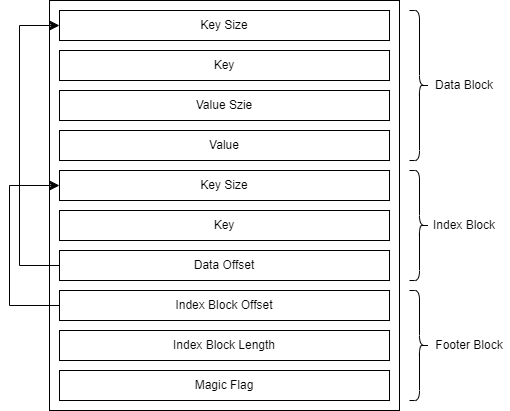
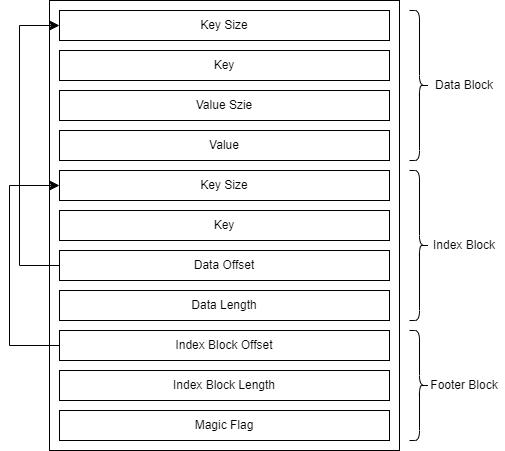
Refactor SSTable encoding and remove unused code

Changed region(s): [[0.0, 0.0, 0.9802, 1.0]]

diff --git a/kv/encode.go b/kv/encode.go
@@ -2,98 +2,47 @@ package kv
 
 import (
 	"encoding/binary"
-	"errors"
-	"sync"
+
+	"github.com/kamijoucen/hifidb/config"
 )
 
-type result struct {
-	index int
-	bytes []byte
+type indexPart struct {
+	keyLen uint32
+	key    []byte
+	offset uint64
 }
 
+// TODO 考虑改为增量写入
 func EnCodeSSTable(sst *SSTable) ([]byte, error) {
 
-	if len(sst.Nodes) == 0 {
-		return nil, errors.New("SSTable.Nodes is empty")
-	}
-	// meta info
-	allBytes := EnCodeSSTableMeta(sst.MetaData)
-	// index info
-	allBytes = append(allBytes, EnCodeSSTableIndex(sst.IndexData)...)
+	allBytes := make([]byte, 0, config.GlobalConfig.SSTableSize)
 
-	resultChan := make(chan result, len(sst.Nodes))
-	var wg sync.WaitGroup
-	wg.Add(len(sst.Nodes))
+	indexSlice := make([]*indexPart, 0, len(sst.DataBlocks))
+	for _, block := range sst.DataBlocks {
+		keyLen := uint32(len(block.Key))
+		// index
+		indexSlice = append(indexSlice, &indexPart{keyLen, block.Key, uint64(len(allBytes))})
+		// data block
+		allBytes = append(allBytes, Uint32ToBytes(keyLen)...)
+		allBytes = append(allBytes, block.Key...)
+		allBytes = append(allBytes, Uint32ToBytes(uint32(len(block.Value)))...)
+		allBytes = append(allBytes, block.Value...)
+	}
 
-	// close resultChan
-	go func() {
-		wg.Wait()
-		close(resultChan)
-	}()
-
-	// TODO 预分配node的空间
-	for i, node := range sst.Nodes {
-		go func(i int, node *SSTableNode) {
-			defer wg.Done()
-			resultChan <- result{i, EnCodeSSTableNode(node)}
-		}(i, node)
+	indexOffset := uint64(len(allBytes))
+	// index block
+	for _, index := range indexSlice {
+		allBytes = append(allBytes, Uint32ToBytes(index.keyLen)...)
+		allBytes = append(allBytes, index.key...)
+		allBytes = append(allBytes, Uint64ToBytes(index.offset)...)
 	}
-	results := make([][]byte, len(sst.Nodes))
-	for range sst.Nodes {
-		r := <-resultChan
-		results[r.index] = r.bytes
-	}
-	for _, bytes := range results {
-		allBytes = append(allBytes, bytes...)
-	}
+	indexLen := uint64(len(allBytes)) - indexOffset
+	// footer
+	allBytes = append(allBytes, Uint64ToBytes(indexOffset)...)
+	allBytes = append(allBytes, Uint64ToBytes(indexLen)...)
+	allBytes = append(allBytes, Uint32ToBytes(MAGIC_NUMBER)...)
+	// footer allBytes: indexOffset + indexLen + magic: 8 + 8 + 4 = 20
 	return allBytes, nil
-}
-
-// convert SSTable meta info to bytes
-func EnCodeSSTableMeta(meta *SSTableMeta) []byte {
-
-	bytes := make([]byte, 0, SS_TABLE_META_SIZE)
-
-	bytes = append(bytes, Uint64ToBytes(meta.Size)...)
-	// block start and end id
-	bytes = append(bytes, StrToBytes(meta.BeginId, DATA_BLOCK_ID_SIZE)...)
-	bytes = append(bytes, StrToBytes(meta.EndId, DATA_BLOCK_ID_SIZE)...)
-	bytes = append(bytes, Uint32ToBytes(meta.BlockSize)...)
-	bytes = append(bytes, Uint64ToBytes(uint64(meta.Timestamp))...)
-	return bytes
-}
-
-// convert sstable index to bytes
-func EnCodeSSTableIndex(index *SSTableIndex) []byte {
-
-	bytes := make([]byte, 0, 8+len(index.Index)*SS_TABLE_INDEX_PAIR_SIZE)
-	bytes = append(bytes, Uint64ToBytes(index.Size)...)
-
-	for k, v := range index.Index {
-		bytes = append(bytes, StrToBytes(k, DATA_BLOCK_ID_SIZE)...)
-		bytes = append(bytes, Uint64ToBytes(v)...)
-	}
-	return bytes
-}
-
-// convert SSTable node to bytes
-func EnCodeSSTableNode(node *SSTableNode) []byte {
-	bytes := EnCodeSSTableNodeMeta(&node.MetaData)
-	bytes = append(bytes, StrToBytes(node.Value, len(node.Value))...)
-	return bytes
-}
-
-// convert SSTable node meta info to bytes
-func EnCodeSSTableNodeMeta(meta *SSNodeMeta) []byte {
-
-	bytes := make([]byte, 0, SS_NODE_META_SIZE)
-
-	bytes = append(bytes, StrToBytes(meta.Id, DATA_BLOCK_ID_SIZE)...)
-	bytes = append(bytes, Uint8ToBytes(meta.DataType)...)
-	bytes = append(bytes, Uint8ToBytes(meta.CompType)...)
-	bytes = append(bytes, Uint64ToBytes(meta.Size)...)
-
-	return bytes
 }
 
 func Uint8ToBytes(n uint8) []byte {

diff --git a/kv/sstable.go b/kv/sstable.go
@@ -1,61 +1,32 @@
 package kv
 
-// 压缩类型
-const (
-	// 不压缩
-	COMP_TYPE_NONE = uint8(iota)
-	// 压缩
-	COMP_TYPE_ZLIB
-)
-
-// 数据块类型
-const (
-	// 普通数据
-	DATA_BLOCK_TYPE_DATA = uint8(iota)
-	// 删除数据
-	DATA_BLOCK_TYPE_DELETE
-)
+// |-------------------------------------|
+// | key size | key | value size | value |
+// |-------------------------------------|
 
 const (
-	DATA_BLOCK_ID_SIZE       = 128
-	DATA_BLOCK_LENGTH_SIZE   = 8
-	SS_TABLE_META_SIZE       = 276
-	SS_NODE_META_SIZE        = 138
-	SS_TABLE_INDEX_PAIR_SIZE = 136
+	MAGIC_NUMBER = 12138
 )
 
-// sstable
+type DataItem struct {
+	Key   []byte
+	Value []byte
+}
+
+type IndexItem struct {
+	Key    []byte // key
+	Offset uint64 // 数据块的偏移量
+	Length uint32 // 数据块的长度
+}
+
+type FooterItem struct {
+	IndexOffset uint64 // 索引块的偏移量
+	IndexLen    uint64 // 索引块的长度
+	Magic       uint32 // 魔数
+}
+
 type SSTable struct {
-	MetaData  *SSTableMeta
-	IndexData *SSTableIndex
-	Nodes     []*SSTableNode
+	DataBlocks  []*DataItem
+	IndexBlocks []*IndexItem
+	FooterItem  *FooterItem
 }
-
-type SSTableMeta struct {
-	Size      uint64 // 8 bytes
-	BeginId   string // 128 bytes
-	EndId     string // 128 bytes
-	BlockSize uint32 // 4 bytes sstable中数据块的数量
-	Timestamp int64  // 8 bytes all 276 bytes
-}
-
-// 有序的键值对
-type SSTableIndex struct {
-	Size  uint64            // 8 bytes
-	Index map[string]uint64 // key 128 bytes value 8 bytes, one index all 136 bytes
-}
-
-// data block
-type SSTableNode struct {
-	MetaData SSNodeMeta
-	Value    string
-}
-
-type SSNodeMeta struct {
-	Id       string // 128 bytes
-	DataType uint8  // 1 byte
-	CompType uint8  // 1 byte
-	Size     uint64 // 8 bytes all 138 bytes
-}
-
-// TODO 通过new新建table

diff --git a/kv/sst_manager.go b/kv/sst_manager.go
@@ -1,19 +1,13 @@
 package kv
 
 import (
-	"os"
-	"path/filepath"
-	"sync"
-
 	"github.com/kamijoucen/hifidb/common"
-	"github.com/kamijoucen/hifidb/config"
 )
 
 // data cache
 // meta cache
 // level manager
 type sstManager struct {
-	lock        sync.RWMutex
 	fileCache   map[string]*common.SafeFile
 	metaManager *metaManager
 	walManager  *walManager
@@ -29,32 +23,6 @@ func NewSstManager() *sstManager {
 
 // @Deprecated 不应该直接写入一个sst，sst是否写入应该在manager中控制
 // TODO sst 文件初始化和文件写入需要分离，sst写入仅针对对应文件加锁
-func (sm *sstManager) WriteSSTable(sst *SSTable) error {
-	sm.lock.RLock()
-
-	path := filepath.Join(config.GlobalConfig.DBPath, "l0.sst")
-	safeFile := sm.fileCache[path]
-	sm.lock.Unlock()
-
-	if safeFile == nil {
-		sm.lock.Lock()
-		safeFile = common.NewSafeFile(path)
-		err := safeFile.Open(os.O_CREATE | os.O_RDWR | os.O_APPEND)
-		if err != nil {
-			sm.lock.Unlock()
-			return err
-		}
-		sm.fileCache[path] = safeFile
-		sm.lock.Unlock()
-	}
-
-	bytes, err := EnCodeSSTable(sst)
-	if err != nil {
-		return err
-	}
-	_, err = safeFile.Write(bytes)
-	return err
-}
 
 func (sm *sstManager) Write(key string, value []byte) error {
 	return sm.walManager.Write(key, value)
